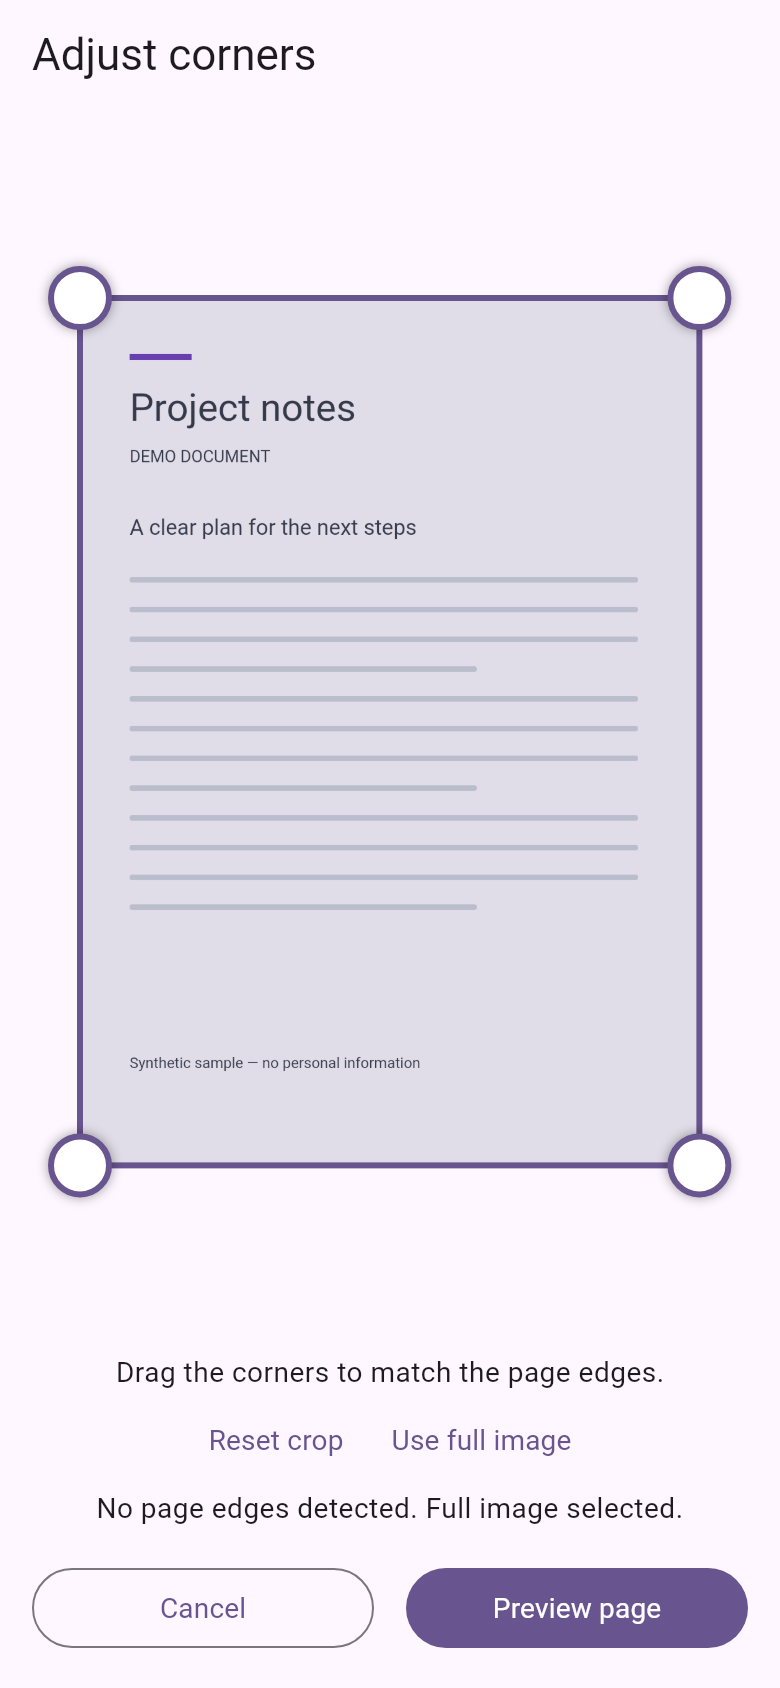
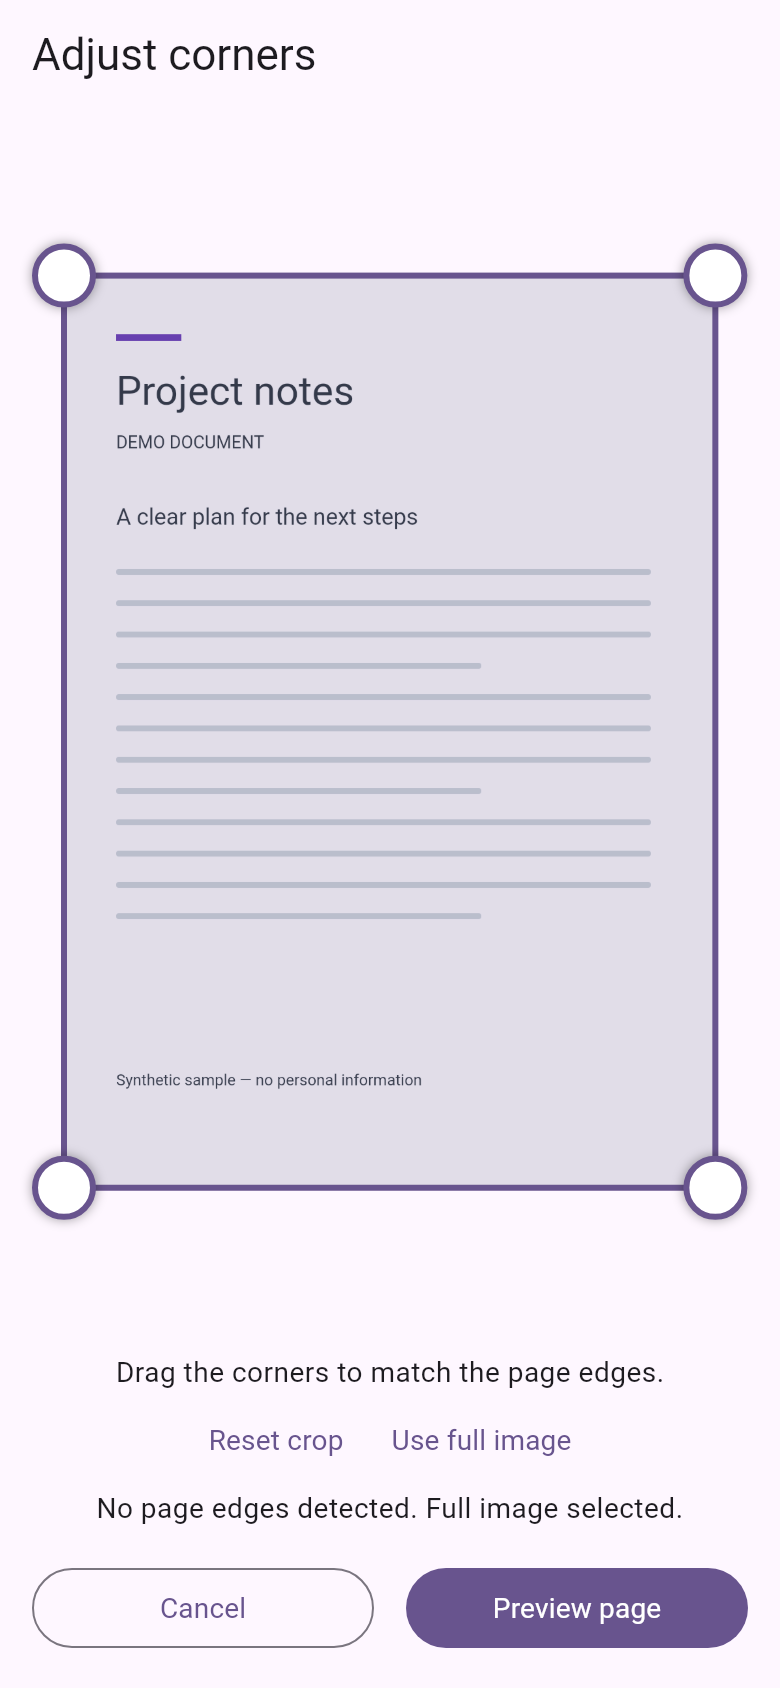
fix: give corner editing priority in responsive layouts

diff --git a/test/screens/corner_adjust_accessibility_test.dart b/test/screens/corner_adjust_accessibility_test.dart
@@ -9,10 +9,15 @@ import 'package:fosscanner/screens/corner_adjust_screen.dart';
 import 'package:fosscanner/widgets/corner_overlay.dart';
 
 class _Operations implements CornerAdjustOperations {
-  _Operations(this.bytes, {this.decodeError});
+  _Operations(
+    this.bytes, {
+    this.decodeError,
+    this.imageSize = const Size(100, 100),
+  });
 
   final Uint8List bytes;
   final Object? decodeError;
+  final Size imageSize;
 
   @override
   Future<Map<PageFilter, Uint8List>> buildPreviews(
@@ -31,7 +36,7 @@ class _Operations implements CornerAdjustOperations {
   @override
   Future<Size> decodeSize(Uint8List imageBytes) async {
     if (decodeError case final error?) throw error;
-    return const Size(100, 100);
+    return imageSize;
   }
 
   @override
@@ -87,6 +92,71 @@ void main() {
     await tester.ensureVisible(find.text('Preview page'));
     await tester.tap(find.text('Preview page'));
     await tester.pumpAndSettle();
+  }
+
+  for (final configuration in [
+    (size: const Size(390, 844), textScale: 1.0),
+    (size: const Size(390, 844), textScale: 1.5),
+    (size: const Size(320, 568), textScale: 2.0),
+    (size: const Size(800, 360), textScale: 1.0),
+    (size: const Size(640, 300), textScale: 2.0),
+  ]) {
+    testWidgets('crop canvas gets priority at ${configuration.size} with '
+        '${configuration.textScale}x text', (tester) async {
+      tester.view.physicalSize = configuration.size;
+      tester.view.devicePixelRatio = 1;
+      addTearDown(tester.view.resetPhysicalSize);
+      addTearDown(tester.view.resetDevicePixelRatio);
+      await tester.pumpWidget(
+        MaterialApp(
+          home: MediaQuery(
+            data: MediaQueryData(
+              textScaler: TextScaler.linear(configuration.textScale),
+            ),
+            child: CornerAdjustScreen(
+              originalBytes: imageBytes,
+              operations: _Operations(
+                imageBytes,
+                imageSize: const Size(600, 900),
+              ),
+              source: PageReviewSource.gallery,
+              isBatchImport: true,
+            ),
+          ),
+        ),
+      );
+      await tester.pumpAndSettle();
+      final canvas = find.byType(CornerOverlay);
+      final before = tester.getRect(canvas);
+      final bodyHeight =
+          configuration.size.height -
+          tester.getBottomRight(find.byType(AppBar)).dy;
+      final landscape = configuration.size.width > bodyHeight;
+      expect(
+        before.height,
+        greaterThanOrEqualTo(bodyHeight * (landscape ? 0.9 : 0.6)),
+      );
+      expect(before.width, greaterThan(configuration.size.width * 0.5));
+
+      // Scrolling controls must not shrink or move the crop canvas.
+      for (final label in ['Use full image', 'Skip image', 'Preview page']) {
+        await tester.ensureVisible(find.text(label));
+        await tester.pumpAndSettle();
+        expect(find.text(label).hitTestable(), findsOneWidget);
+        expect(tester.getRect(canvas), before);
+      }
+      final oldCorner = tester.widget<CornerOverlay>(canvas).corners.first;
+      await tester.dragFrom(
+        tester.getCenter(find.byKey(const ValueKey('corner-handle-0'))),
+        const Offset(20, 20),
+      );
+      await tester.pumpAndSettle();
+      expect(
+        tester.widget<CornerOverlay>(canvas).corners.first,
+        isNot(oldCorner),
+      );
+      expect(tester.takeException(), isNull);
+    });
   }
 
   testWidgets('short landscape with large text scrolls to Save changes', (

diff --git a/lib/screens/corner_adjust_screen.dart b/lib/screens/corner_adjust_screen.dart
@@ -470,7 +470,7 @@ class _CornerAdjustScreenState extends State<CornerAdjustScreen> {
     List<Offset> corners,
   ) {
     final preview = Padding(
-      padding: const EdgeInsets.all(16),
+      padding: const EdgeInsets.all(8),
       child: CornerOverlay(
         imageBytes: widget.originalBytes,
         imageSize: imageSize,
@@ -559,27 +559,33 @@ class _CornerAdjustScreenState extends State<CornerAdjustScreen> {
     );
     return LayoutBuilder(
       builder: (context, constraints) {
-        final scrollable =
-            constraints.maxHeight < 480 ||
-            MediaQuery.textScalerOf(context).scale(16) > 20;
-        if (scrollable) {
-          return SingleChildScrollView(
-            key: const Key('batch_review_scroll_view'),
-            child: Column(
-              children: [
-                SizedBox(
-                  height: (constraints.maxHeight * 0.55).clamp(120.0, 280.0),
-                  child: preview,
-                ),
-                actions,
-              ],
-            ),
+        final controls = SingleChildScrollView(
+          key: const Key('batch_review_scroll_view'),
+          child: actions,
+        );
+        // Keep the crop canvas stable while guidance and large-text controls
+        // scroll independently. A height cap on the canvas made it tiny on
+        // short screens and whenever accessibility text scaling was enabled.
+        if (constraints.maxWidth > constraints.maxHeight) {
+          return Row(
+            children: [
+              Expanded(child: preview),
+              SizedBox(
+                width: (constraints.maxWidth * 0.35).clamp(240.0, 320.0),
+                child: controls,
+              ),
+            ],
           );
         }
         return Column(
           children: [
             Expanded(child: preview),
-            actions,
+            ConstrainedBox(
+              constraints: BoxConstraints(
+                maxHeight: constraints.maxHeight * 0.35,
+              ),
+              child: controls,
+            ),
           ],
         );
       },
